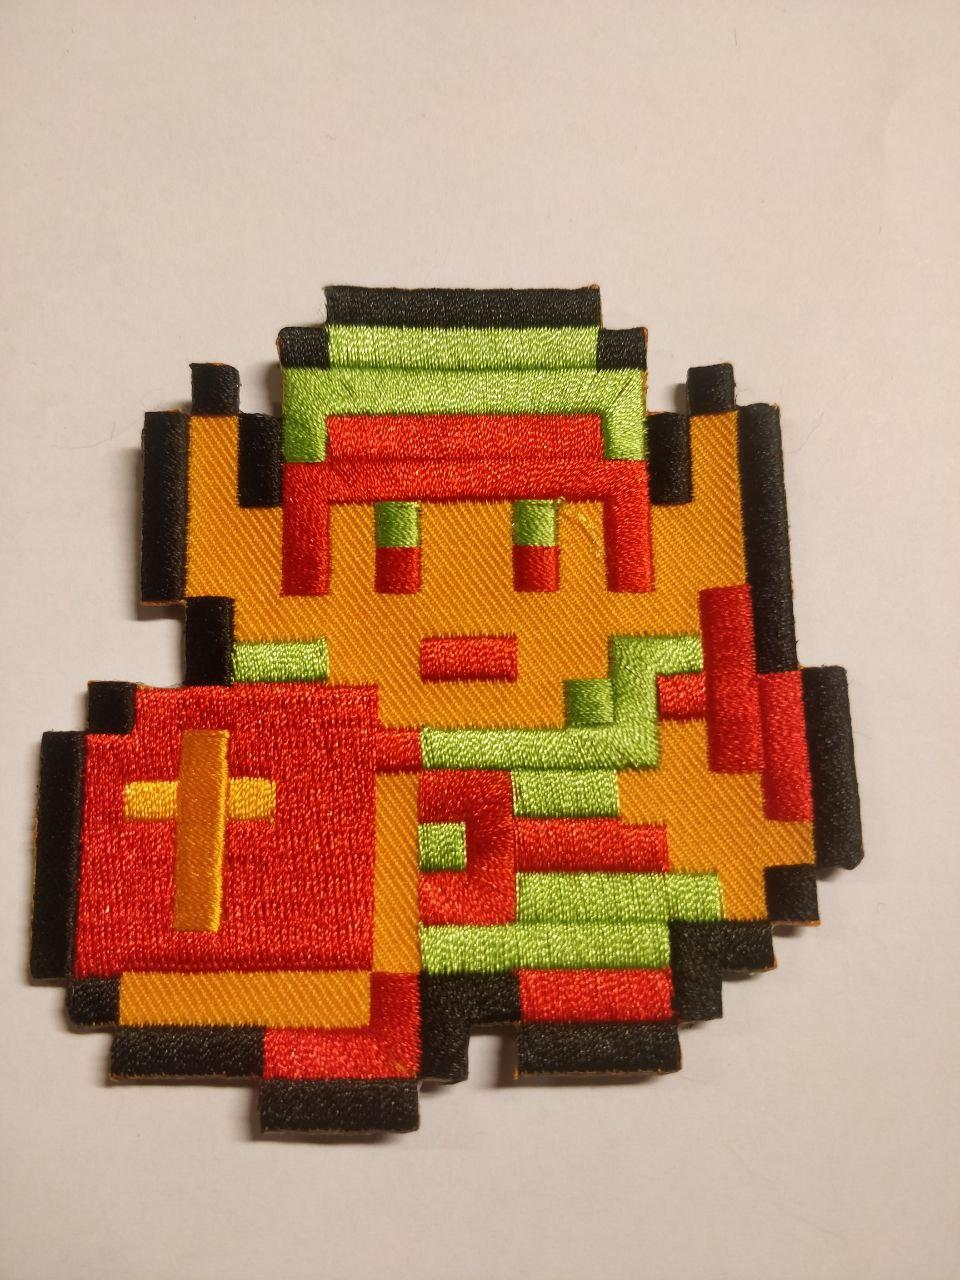
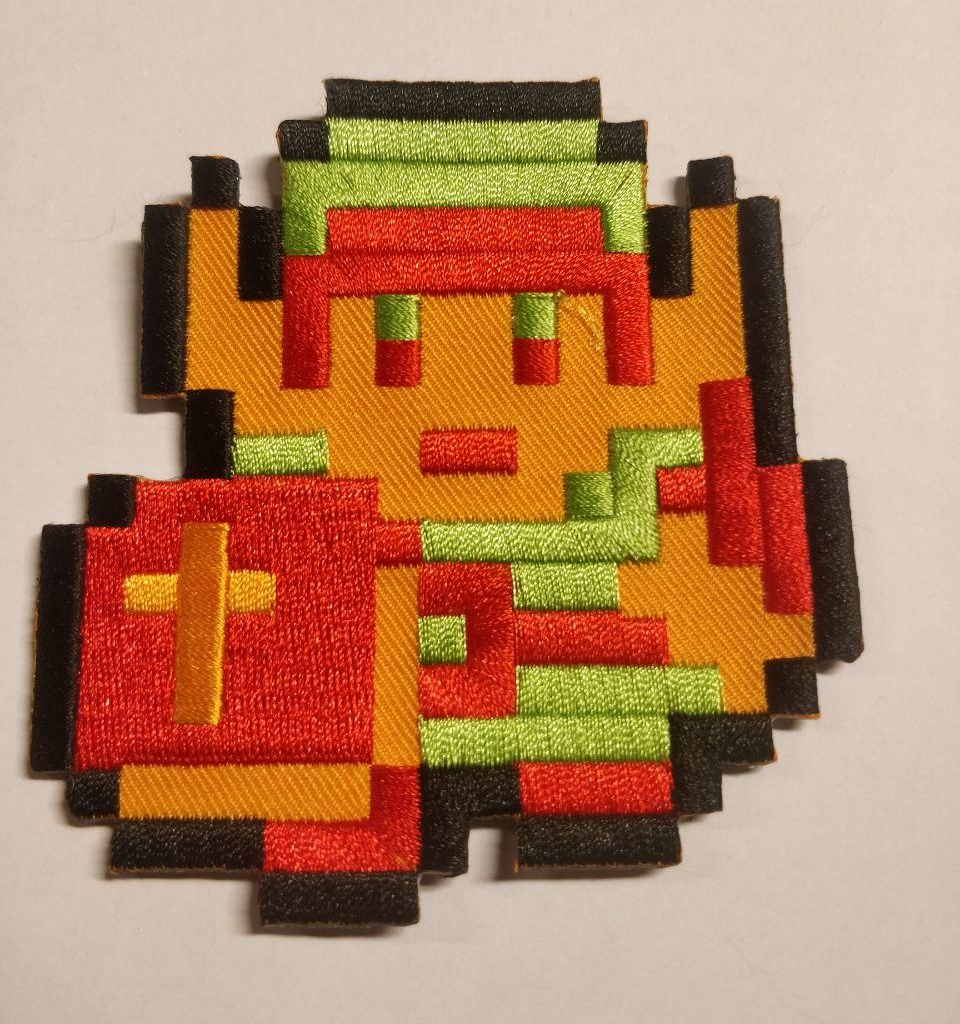
Update haalarimerkki images (#10)
* Crop images from excessive space

* Add 25% sized thumbnails for images

* Add thumbnails as links to images

diff --git a/content/toiminta/haalarimerkit/_index.md b/content/toiminta/haalarimerkit/_index.md
@@ -8,34 +8,34 @@ menu:
 
 Tällä sivulla on näkyvissä Oulun Tietoteekkarit ry:n myymät haalarimerkit
 
-![](1up.jpg)
+[![](1up_thumbnail.jpg)](1up.jpg)
 
-![](asd.jpg)
+[![](asd_thumbnail.jpg)](asd.jpg)
 
-![](bigdick.jpg)
+[![](bigdick_thumbnail.jpg)](bigdick.jpg)
 
-![](heijastinhaamu.jpg)
+[![](heijastinhaamu_thumbnail.jpg)](heijastinhaamu.jpg)
 
-![](hilarius.jpg)
+[![](hilarius_thumbnail.jpg)](hilarius.jpg)
 
-![](longcat.jpg)
+[![](longcat_thumbnail.jpg)](longcat.jpg)
 
-![](megaman.jpg)
+[![](megaman_thumbnail.jpg)](megaman.jpg)
 
-![](niilo22.jpg)
+[![](niilo22_thumbnail.jpg)](niilo22.jpg)
 
-![](otit.jpg)
+[![](otit_thumbnail.jpg)](otit.jpg)
 
-![](otitvaakuna.jpg)
+[![](otitvaakuna_thumbnail.jpg)](otitvaakuna.jpg)
 
-![](pacman.jpg)
+[![](pacman_thumbnail.jpg)](pacman.jpg)
 
-![](pacmanpoika.jpg)
+[![](pacmanpoika_thumbnail.jpg)](pacmanpoika.jpg)
 
-![](pacmantytto.jpg)
+[![](pacmantytto_thumbnail.jpg)](pacmantytto.jpg)
 
-![](poysti.jpg)
+[![](poysti_thumbnail.jpg)](poysti.jpg)
 
-![](sieni.jpg)
+[![](sieni_thumbnail.jpg)](sieni.jpg)
 
-![](vauhtijuoksu.jpg)
+[![](vauhtijuoksu_thumbnail.jpg)](vauhtijuoksu.jpg)
